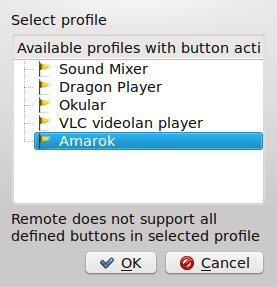
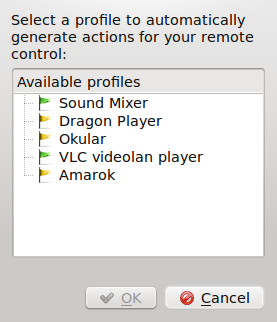
changed autopopulate dialogs header label updated auopopulate screenshot updated TODO
svn path=/branches/work/kdelirc/doc/kremotecontrol/; revision=1100471

diff --git a/kcmremotecontrol/selectprofile.cpp b/kcmremotecontrol/selectprofile.cpp
@@ -31,8 +31,10 @@ SelectProfileWidget::SelectProfileWidget (QWidget *parent) : QWidget(parent) {
 
     profilesWidget = new QTreeWidget();
     layout = new QVBoxLayout(this);
-    layout->addWidget(new QLabel(i18n("Select profile")));
-    profilesWidget->setHeaderLabel(i18n("Available profiles with button actions"));
+    QLabel *headerLabel = new QLabel(i18n("Select a profile to automatically generate actions for your remote control:"));
+    headerLabel->setWordWrap(true);
+    layout->addWidget(headerLabel);
+    profilesWidget->setHeaderLabel(i18n("Available profiles"));
     layout->addWidget(profilesWidget);
     layout->addWidget(selectionLabel);
     
